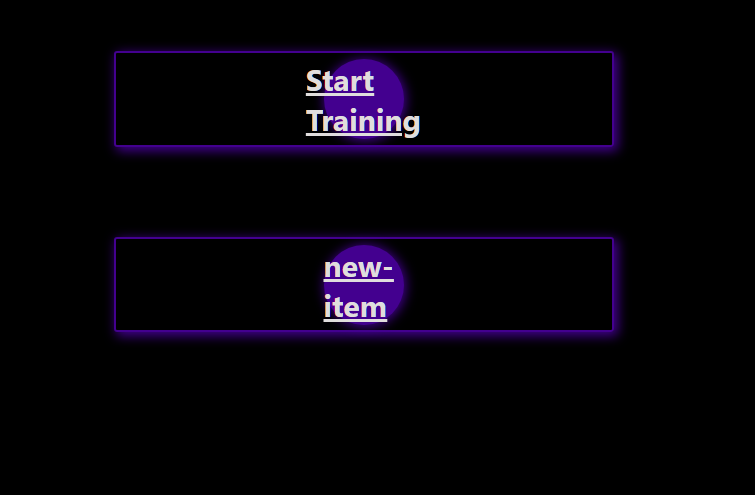
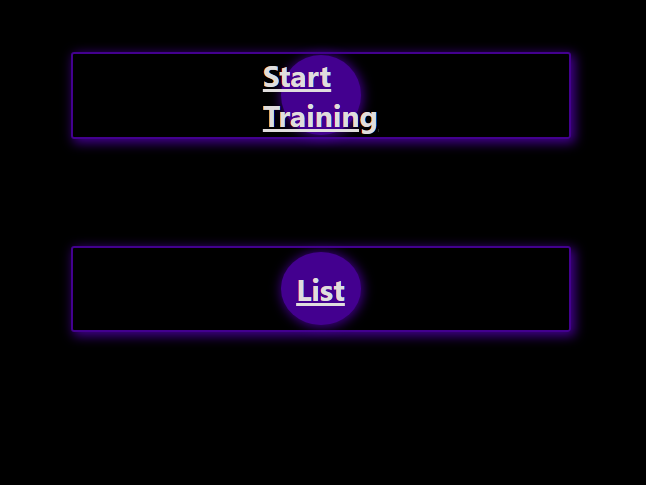
new picture

Changed region(s): [[0.0929, 0.4639, 0.8978, 0.7113], [0.0929, 0.0928, 0.8978, 0.3402]]

diff --git a/index.html b/index.html
@@ -12,7 +12,7 @@
     </div>
 
     <div class="container">
-        <a class="button" href="list.html">new-item</a>
+        <a class="button" href="list.html">List</a>
     </div>
     
     <script src="index.js"></script>

diff --git a/index.js b/index.js
@@ -95,4 +95,3 @@ function changeBtn() {
 
 }
 
- 
